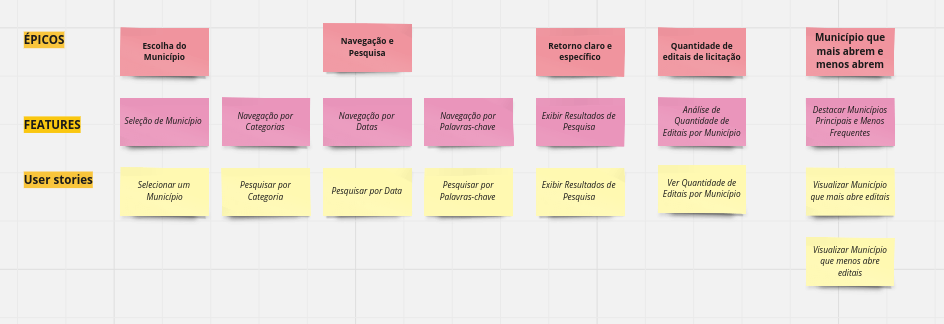
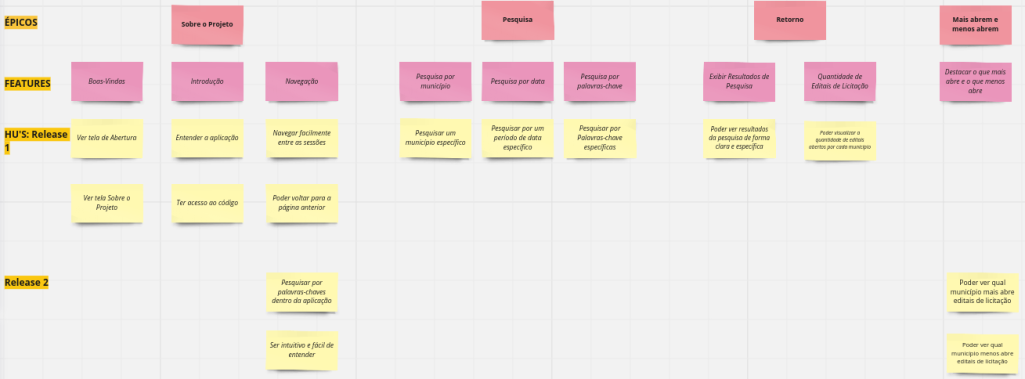
:pencil: stroryMap

diff --git a/docs/requisitos/userstorymap.md b/docs/requisitos/userstorymap.md
@@ -6,71 +6,92 @@ Criação do User Story Map
 ## Histórico de Versões
 
 | Data       | Versão | Descrição                                 | Autor             |
-| :--------: | :----: | :----------:                              | :---------------: |
-| 07/10/2023 |  0.1   | Criação do User Story Map             | [Júlia Takaki](https://github.com/juliatakaki)
+| :--------: | :----: | :----------:                              | :----------------------: |
+| 07/10/2023 |  0.1   | Criação do User Story Map             | [Júlia Takaki](https://github.com/juliatakaki) |
+| 09/10/2023 |  0.2   | Atualização do Story Map              | [Giovana Barbosa ](https://github.com/gio221) e  [José André](https://github.com/joseandre25) |
+
 
 ### Quadro das funcionalidades
 Um User Story Map é uma ferramenta visual que ajuda a equipe a entender e planejar as funcionalidades de uma aplicação de maneira mais estruturada e centrada no usuário. Ele é particularmente útil no contexto de desenvolvimento ágil, como o Scrum. O quadro abaixo apresenta os principais conceitos envolvidos, como cards épicos, features e histórias de usuário (HU's).
 
-![](../assets/storymap.png)
+![](../assets/StoryMap.png)
 
 ## Explicação do diagrama
 
-### Épico: Escolha do município
+### Épico: Sobre o Projeto
+- Uma informação inicial, onde o usuário terá o primeiro contato com a aplicação e terá uma breve explicação sobre como usa-la.Os usuários podem escolher o município do Estado do Ceará desejado.
+[Link para o épico](backlog.md### EP01: Sobre o projeto)
 
-#### Feature: Seleção de Município
-- Os usuários podem escolher o município do Estado do Ceará desejado.
+#### Feature: Boas-Vindas
 
-#### História de Usuário (HU): Selecionar um Município
-- Como um usuário, quero poder selecionar o município do Estado do Ceará que desejo para ver os editais de licitação relacionados a esse município.
+###### História de Usuário (HU): Ver tela de Abertura
+- Como usuário, eu quero ver uma tela de abertura quando eu abrir a aplicação, para que eu saiba que ele está carregando corretamente..
+
+###### História de Usuário (HU): Ver tela Sobre o Projeto
+- Como usuário, quero ver uma tela de sobre o projeto com uma breve introdução à aplicação e suas funcionalidades, para que eu possa ter uma ideia do que esperar e como usar a aplicação.
+
+#### Feature: Introdução
+
+###### História de Usuário (HU): Entender a Aplicação
+- Como usuário, eu quero ver uma breve explicação sobre a aplicação para entender como ele pode me ajudar a visualizar a quantidade de abertura de editais de licitação em determinado município do Ceará.
+
+###### História de Usuário (HU): Ter acesso ao Codigo
+- Como usuário, eu quero ter acesso ao código fonte da aplicação..
+
+#### Feature: Navegação
+
+###### História de Usuário (HU): Navegar facilmente entre as sessões
+- Como usuário, quero ser capaz de navegar facilmente pelas diferentes seções da aplicação para encontrar informações relevantes de forma rápida e fácil.
+
+###### História de Usuário (HU): Poder voltar para a página anterior
+- Como usuário, quero ser capaz de voltar para a página anterior a qualquer momento, caso eu precise rever uma informação anterior.
+
+###### História de Usuário (HU): Pesquisar por palavras-chaves dentro da aplicação
+-Como usuário, quero ser capaz de pesquisar por palavras-chave ou frases para encontrar informações específicas dentro da aplicação.
+
+###### História de Usuário (HU): Ser intuitivo e fácil de entender 
+-Como usuário, quero que a navegação na aplicação seja intuitiva e fácil de entender, independentemente do meu nível de experiência com tecnologia.
 
 #
-### Épico: Navegação e Pesquisa
+### Épico: Pesquisa
 
-#### Feature: Navegação por Categorias
-- Os usuários podem navegar facilmente pelo Diário Oficial, usando categorias.
+#### Feature: Pesquisa por Município
 
-#### Feature: Navegação por Datas
-- Os usuários podem navegar facilmente pelo Diário Oficial, usando datas.
+###### História de Usuário (HU): Pesquisar por municipio em especifico
+- Como usuário, gostaria de poder pesquisar um município específico para ver a quantidade de editais de licitação abertos.
 
-#### Feature: Navegação por Palavras-chave
-- Os usuários podem navegar facilmente pelo Diário Oficial, usando palavras-chave.
+#### Feature:  Pesquisa por Data
 
-#### História de Usuário (HU): Pesquisar por Categoria
-- Como um usuário, quero poder navegar pelo Diário Oficial, escolhendo uma categoria específica para encontrar editais de licitação relacionados a essa categoria.
+###### História de Usuário (HU): Pesquisar por periodo de data especifico
+- Como usuário, gostaria de poder pesquisar um período de data específico e ver a quantidade de editais de licitação abertos.
 
-#### História de Usuário (HU): Pesquisar por Data
-- Como um usuário, quero poder navegar pelo Diário Oficial, escolhendo uma data específica para encontrar editais de licitação publicados nessa data.
+#### Feature: Pesquisa por Palavra-Chave
 
-#### História de Usuário (HU): Pesquisar por Palavras-chave
-- Como um usuário, quero poder pesquisar no Diário Oficial usando palavras-chave relevantes para encontrar editais de licitação relacionados às minhas necessidades.
+###### História de Usuário (HU):Pesquisa por Palavra-Chave
+-Como usuário, quero poder pesquisar no Diário Oficial usando palavras-chave relevantes para encontrar editais de licitação relacionados às minhas necessidades.
+
 
 #
-### Épico: Retorno claro e específico
+### Épico: Retorno 
 
 #### Feature: Exibir Resultados de Pesquisa
-- O retorno da pesquisa deve ser claro e especificado para o usuário, mostrando a citação e a data em que a palavra-chave foi referenciada.
 
-#### História de Usuário (HU): Exibir Resultados de Pesquisa
--Como um usuário, quero ver os resultados da minha pesquisa de forma clara e específica, incluindo a citação relevante e a data em que a palavra-chave foi referenciada.
+###### História de Usuário (HU):Poder ver resultados de pesquisa de forma clara e especifica
+-Como usuário, quero ver os resultados da minha pesquisa de forma clara e específica, incluindo a citação relevante e a data em que a palavra-chave foi referenciada.
 
-#
-### Épico: Quantidade de editais de licitação
+#### Feature: Quantidade de Editais de Licitação
 
-#### Feature: Análise de Quantidade de Editais por Município
-- Os usuários podem analisar a quantidade de aberturas de editais de licitação por município em determinado período de tempo.
+###### História de Usuário (HU):Poder vizualizar a quantidadede editais abertos por cada municipio
+Como usuário, quero poder visualizar a quantidade de editais de licitação abertos por cada município do Estado do Ceará em um período de tempo específico.
 
-#### História de Usuário (HU): Ver Quantidade de Editais por Município
--Como um usuário, quero poder visualizar a quantidade de editais de licitação abertos por cada município do Estado do Ceará em um período de tempo específico.
 
 #
-### Épico: Município que mais abre edital de licitação e os que menos abre
+### Épico: Mais abrem e menos abrem
 
-#### Feature: Destacar Municípios Principais e Menos Frequentes
-- Os usuários podem ver facilmente qual município mais abre edital de licitação e qual é o que menos abre.
+#### Feature: Destacar o que mais abre e o que menos abre
 
-#### História de Usuário (HU): Visualizar Município que mais abre editais
-- Como um usuário, quero poder ver qual município no Estado do Ceará mais frequentemente abre editais de licitação.
+###### História de Usuário (HU):Poder ver qual municipio mais abre ediatis de licitação
+-Como usuário, quero poder ver qual município no Estado do Ceará que mais abre editais de licitação.
 
-#### História de Usuário (HU): Visualizar Município que menos abre editais
-- Como um usuário, quero poder ver qual município no Estado do Ceará menos frequentemente abre editais de licitação.
+###### História de Usuário (HU):Poder ver qual municipio menos abre ediatis de licitação
+-Como usuário, quero poder ver qual município no Estado do Ceará que menos abre editais de licitação.
